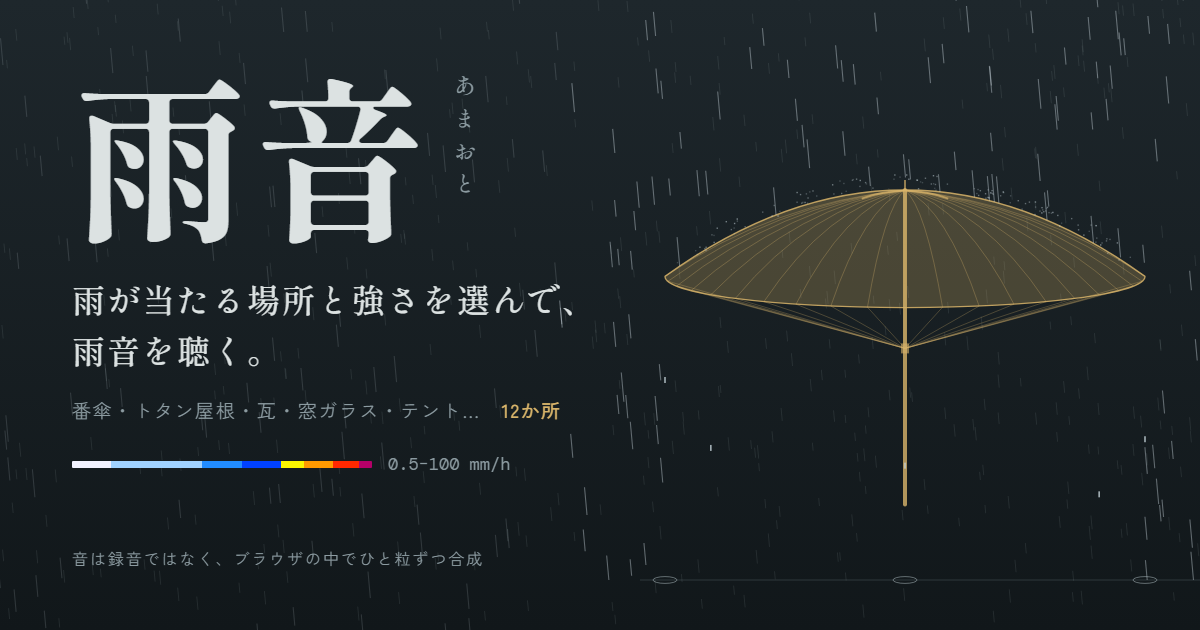
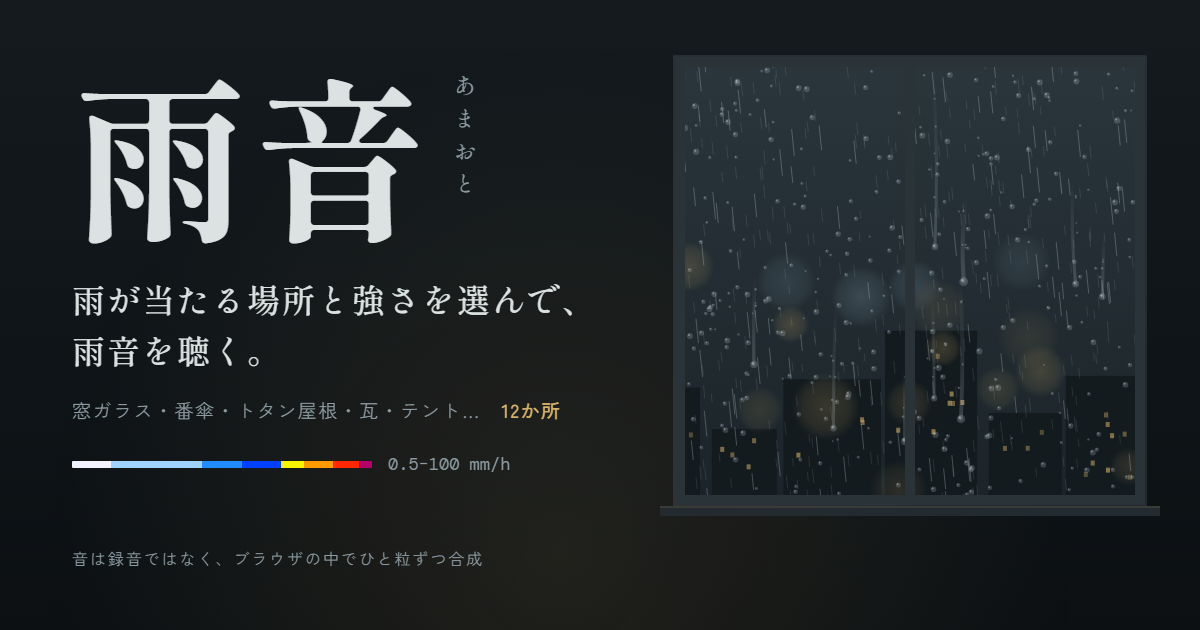
OGP画像を窓ガラスの情景に変更
- 番傘から、室内から窓越しに雨の夜の街を見る構図へ
- 場所の例を窓ガラス始まりに並べ替え

diff --git a/tools/og.html b/tools/og.html
@@ -6,7 +6,7 @@
 <style>
 :root{--sumi:#161C20;--gin:#DCE2E2;--nezu:#8C9BA1;--andon:#D8B46A;--line:#33404A}
 html,body{margin:0;width:1200px;height:630px;overflow:hidden;background:var(--sumi)}
-.card{position:relative;width:1200px;height:630px;background:linear-gradient(180deg,#1E272C,#11171A);color:var(--gin);font-family:"Zen Kaku Gothic New",sans-serif}
+.card{position:relative;width:1200px;height:630px;background:linear-gradient(180deg,#141A1E,#0C1013);color:var(--gin);font-family:"Zen Kaku Gothic New",sans-serif}
 canvas{position:absolute;inset:0}
 .txt{position:absolute;left:72px;top:64px;width:560px}
 .mark{display:flex;align-items:flex-start;gap:18px}
@@ -26,14 +26,14 @@ canvas{position:absolute;inset:0}
   <div class="txt">
     <div class="mark"><h1>雨音</h1><span>あまおと</span></div>
     <p class="copy">雨が当たる場所と強さを選んで、<br>雨音を聴く。</p>
-    <p class="places">番傘・トタン屋根・瓦・窓ガラス・テント…　<b>12か所</b></p>
+    <p class="places">窓ガラス・番傘・トタン屋根・瓦・テント…　<b>12か所</b></p>
     <div class="strip"><i id="strip"></i><span>0.5–100 mm/h</span></div>
   </div>
   <p class="foot">音は録音ではなく、ブラウザの中でひと粒ずつ合成</p>
 </div>
 <script>
 // 決定的な乱数（毎回同じ絵になるように）
-let seed=7;const R=()=>{seed=(seed*16807)%2147483647;return (seed-1)/2147483646};
+let seed=11;const R=()=>{seed=(seed*16807)%2147483647;return (seed-1)/2147483646};
 const rnd=(a,b)=>a+R()*(b-a),TAU=Math.PI*2;
 const W=1200,H=630,c=document.getElementById('cv').getContext('2d');
 
@@ -42,60 +42,64 @@ const RADAR=[[0.5,1,'#F2F2FF'],[1,5,'#A0D2FF'],[5,10,'#218CFF'],[10,20,'#0041FF'
 const pos=m=>Math.log(m/.5)/Math.log(200)*100;
 document.getElementById('strip').style.background='linear-gradient(90deg,'+RADAR.map(([a,b,col])=>`${col} ${pos(a).toFixed(2)}% ${pos(b).toFixed(2)}%`).join(',')+')';
 
-// 番傘（アプリの drawUmbrella を簡略化）
-const cx=905,Rr=240,y0=190,Hc=Rr*.36,e=Rr*.13,rimY=y0+Hc,ground=580;
-const n=40,front=[];
-for(let i=0;i<n;i++){const th=i/n*TAU;if(Math.sin(th)>1e-6)front.push({x:cx+Rr*Math.cos(th),y:rimY+e*Math.sin(th)})}
-front.sort((a,b)=>b.x-a.x);
-const hitY=x=>{const u=(x-cx)/Rr;return Math.abs(u)<=1?y0+Hc*u*u:ground};
+// 窓（アプリの drawGlass を下敷きにした、夜の窓辺）
+const x0=680,x1=1140,y0=62,y1=500,xm=(x0+x1)/2;
 
-// 遠くの雨
-const w=.09;
-c.strokeStyle='rgba(190,205,212,.14)';c.lineWidth=.8;c.beginPath();
-for(let i=0;i<520;i++){const x=rnd(-40,W+40),y=rnd(-20,H),l=rnd(8,14);c.moveTo(x,y);c.lineTo(x-l*w,y-l)}c.stroke();
+// 室内の明かり（窓の左下から、行灯色がほのかに）
+const room=c.createRadialGradient(560,560,0,560,560,520);
+room.addColorStop(0,'rgba(216,180,106,.10)');room.addColorStop(1,'rgba(216,180,106,0)');
+c.fillStyle=room;c.fillRect(0,0,W,H);
 
-// 地面
-c.strokeStyle='rgba(140,155,161,.25)';c.lineWidth=1;c.beginPath();c.moveTo(640,ground);c.lineTo(W,ground);c.stroke();
-// 柄
-c.strokeStyle='rgba(216,180,106,.8)';c.lineWidth=4;c.lineCap='round';c.beginPath();c.moveTo(cx,y0);c.lineTo(cx,rimY+Rr*.95);c.stroke();c.lineCap='butt';
-// 受け骨
-const hub=rimY+Rr*.3;c.strokeStyle='rgba(216,180,106,.28)';c.lineWidth=1;c.beginPath();
-for(const t of front){c.moveTo(cx,hub);c.lineTo(t.x,t.y)}c.stroke();
-c.fillStyle='rgba(216,180,106,.6)';c.fillRect(cx-4,hub-5,8,10);
-// 傘布
-c.beginPath();c.moveTo(cx-Rr,rimY);c.quadraticCurveTo(cx,y0-Hc,cx+Rr,rimY);c.ellipse(cx,rimY,Rr,e,0,0,Math.PI,false);c.closePath();
-c.fillStyle='rgba(216,180,106,.26)';c.fill();c.strokeStyle='rgba(216,180,106,.85)';c.lineWidth=1.3;c.stroke();
-// 親骨
-c.strokeStyle='rgba(216,180,106,.38)';c.lineWidth=.8;c.beginPath();
-for(const t of [...front,{x:cx+Rr,y:rimY},{x:cx-Rr,y:rimY}]){const dx=t.x-cx;c.moveTo(cx,y0);c.quadraticCurveTo(cx+dx*.55,y0+(t.y-y0)*.15,t.x,t.y)}c.stroke();
-c.beginPath();c.moveTo(cx-Rr*.18,y0+Hc*.1);c.quadraticCurveTo(cx,y0-Hc*.08,cx+Rr*.18,y0+Hc*.1);c.strokeStyle='rgba(216,180,106,.7)';c.lineWidth=2;c.stroke();
-c.strokeStyle='rgba(216,180,106,.85)';c.lineWidth=1.5;c.beginPath();c.moveTo(cx,y0);c.lineTo(cx,y0-10);c.stroke();
+c.save();c.beginPath();c.rect(x0,y0,x1-x0,y1-y0);c.clip();
+// 外の空
+const sky=c.createLinearGradient(0,y0,0,y1);sky.addColorStop(0,'#2A353C');sky.addColorStop(1,'#1B2429');
+c.fillStyle=sky;c.fillRect(x0,y0,x1-x0,y1-y0);
+// 遠くの街（ビルと灯り）
+for(let x=x0-20;x<x1;){
+  const bw=rnd(40,105),bh=(y1-y0)*rnd(.14,.40);
+  c.fillStyle='#141B1F';c.fillRect(x,y1-bh,bw,bh);
+  const nl=3+((R()*6)|0);
+  for(let i=0;i<nl;i++){c.fillStyle=`rgba(216,180,106,${rnd(.3,.6).toFixed(2)})`;c.fillRect(x+bw*rnd(.12,.82),y1-bh+bh*rnd(.12,.8),4,5)}
+  x+=bw+rnd(2,14);
+}
+// 雨ににじむ街灯り（ガラス越しのぼけ）
+for(let i=0;i<16;i++){
+  const bx=rnd(x0,x1),by=rnd(y1-(y1-y0)*.55,y1-10),br=rnd(14,34),warm=R()<.7;
+  const g=c.createRadialGradient(bx,by,0,bx,by,br);
+  const col=warm?'216,180,106':'170,200,220',a=rnd(.10,.22);
+  g.addColorStop(0,`rgba(${col},${a.toFixed(2)})`);g.addColorStop(.7,`rgba(${col},${(a*.5).toFixed(2)})`);g.addColorStop(1,`rgba(${col},0)`);
+  c.fillStyle=g;c.fillRect(bx-br,by-br,br*2,br*2);
+}
+// ガラス越しの雨（こもって見えるよう細く淡く）
+const w=.1;
+c.lineWidth=.8;c.strokeStyle='rgba(190,205,212,.16)';c.beginPath();
+for(let i=0;i<340;i++){const x=rnd(x0-30,x1),y=rnd(y0,y1+20),l=rnd(8,14);c.moveTo(x,y);c.lineTo(x-l*w,y-l)}c.stroke();
+c.lineWidth=1;c.strokeStyle='rgba(205,218,224,.28)';c.beginPath();
+for(let i=0;i<120;i++){const x=rnd(x0-30,x1),y=rnd(y0,y1+30),l=rnd(16,28);c.moveTo(x,y);c.lineTo(x-l*w,y-l)}c.stroke();
 
-// 手前の雨（傘に当たると止まり、しぶきが上がる）。文字の上は薄くする
-const sparks=[];
-c.lineWidth=1.1;
-for(let i=0;i<220;i++){
-  const x=rnd(560,W+20),hy=hitY(x),l=rnd(16,30),y=rnd(-20,H+40);
-  if(y>hy+l)continue; // 傘の下には降らない
-  const ye=Math.min(y,hy);
-  c.strokeStyle='rgba(205,218,224,.42)';c.beginPath();c.moveTo(x,ye);c.lineTo(x-l*w,ye-l);c.stroke();
-  if(ye===hy&&hy<ground)sparks.push([x,hy]);
+// ガラスの水滴
+const drop=(x,y,r)=>{
+  c.fillStyle='rgba(190,205,212,.22)';c.beginPath();c.arc(x,y,r,0,TAU);c.fill();
+  c.fillStyle='rgba(255,255,255,.34)';c.beginPath();c.arc(x-r*.3,y-r*.3,r*.35,0,TAU);c.fill();
+};
+for(let i=0;i<300;i++){const x=rnd(x0,x1),y=rnd(y0,y1);drop(x,y,rnd(1,3.2))}
+// 流れ落ちる大きめの粒と、その跡
+for(let i=0;i<9;i++){
+  const x=rnd(x0+15,x1-15),yEnd=rnd(y0+120,y1-10),len=rnd(60,180),r=rnd(3.2,4.6);
+  const tr=c.createLinearGradient(0,yEnd-len,0,yEnd);tr.addColorStop(0,'rgba(190,205,212,0)');tr.addColorStop(1,'rgba(190,205,212,.22)');
+  c.strokeStyle=tr;c.lineWidth=r*.9;c.lineCap='round';c.beginPath();c.moveTo(x+rnd(-3,3),yEnd-len);c.quadraticCurveTo(x+rnd(-5,5),yEnd-len/2,x,yEnd);c.stroke();
+  for(let k=0;k<4;k++)drop(x+rnd(-2,2),yEnd-len*rnd(.2,.9),rnd(.8,1.5));
+  drop(x,yEnd,r);
 }
-for(let i=0;i<90;i++){
-  const x=rnd(-20,560),l=rnd(16,28),y=rnd(-20,H+20);
-  c.strokeStyle='rgba(205,218,224,.16)';c.beginPath();c.moveTo(x,y);c.lineTo(x-l*w,y-l);c.stroke();
-}
-// 傘の上のしぶき
-c.fillStyle='rgba(200,214,220,.7)';
-for(let i=0;i<60;i++){const x=rnd(cx-Rr+10,cx+Rr-10),y=hitY(x);for(let k=0;k<2;k++){c.globalAlpha=rnd(.3,.8);c.fillRect(x+rnd(-8,8),y-rnd(2,16),1.4,1.4)}}
-for(const [x,y] of sparks){c.globalAlpha=rnd(.3,.7);c.fillRect(x+rnd(-6,6),y-rnd(2,12),1.4,1.4)}
-c.globalAlpha=1;
-// 傘の縁から落ちるしずくと、地面の波紋
-for(const t of [front[3],front[9],front[15]].concat([{x:cx+Rr,y:rimY},{x:cx-Rr,y:rimY}])){
-  const dy=rnd(40,200);c.fillStyle='rgba(200,214,220,.8)';c.fillRect(t.x-.8,t.y+dy,1.6,6);
-}
-c.strokeStyle='rgba(200,214,220,.45)';c.lineWidth=1;
-for(const x of [cx-Rr,cx+Rr,front[9].x]){c.beginPath();c.ellipse(x,ground,12,3.4,0,0,TAU);c.stroke()}
+c.lineCap='butt';
+c.restore();
+
+// 窓枠・中桟・窓台
+c.strokeStyle='#2A3338';c.lineWidth=10;c.strokeRect(x0,y0,x1-x0,y1-y0);
+c.fillStyle='#2A3338';c.fillRect(xm-5,y0,10,y1-y0);
+c.strokeStyle='rgba(190,202,206,.25)';c.lineWidth=1;c.strokeRect(x0-6,y0-6,x1-x0+12,y1-y0+12);
+c.fillStyle='#232B30';c.fillRect(x0-20,y1+6,x1-x0+40,10);
+c.fillStyle='rgba(216,180,106,.12)';c.fillRect(x0-20,y1+6,x1-x0+40,2);
 </script>
 </body>
 </html>
